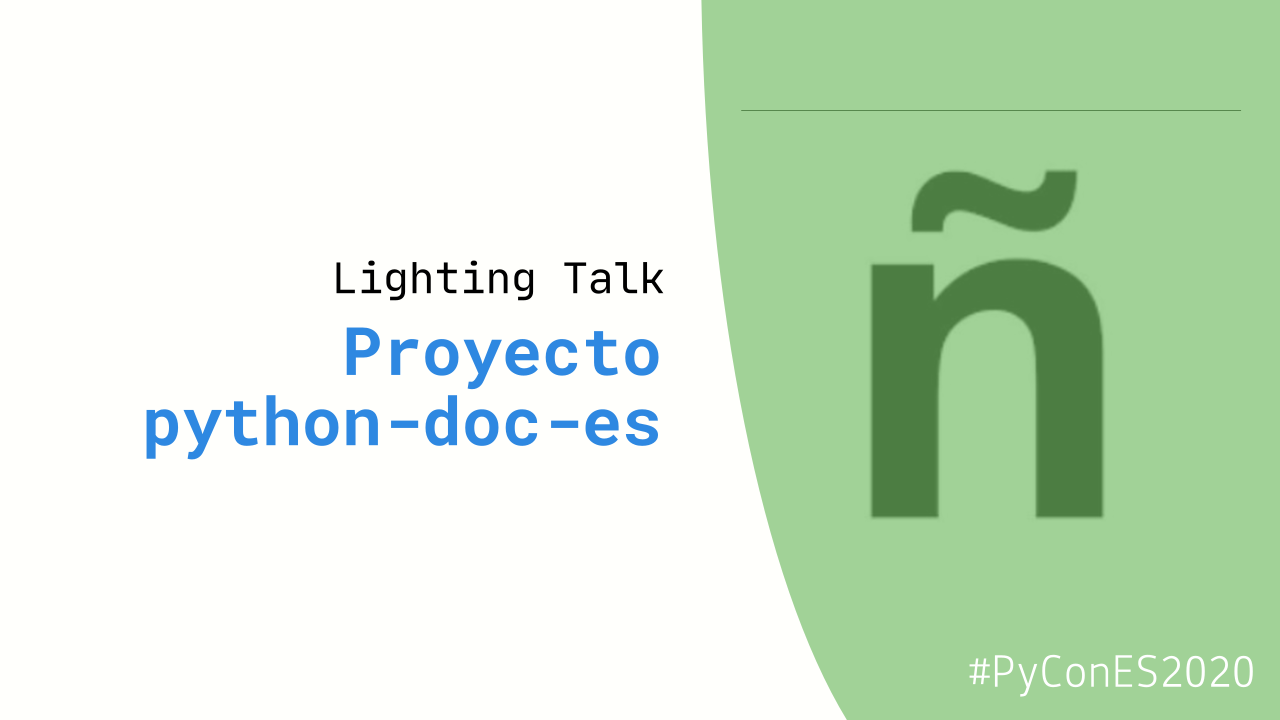
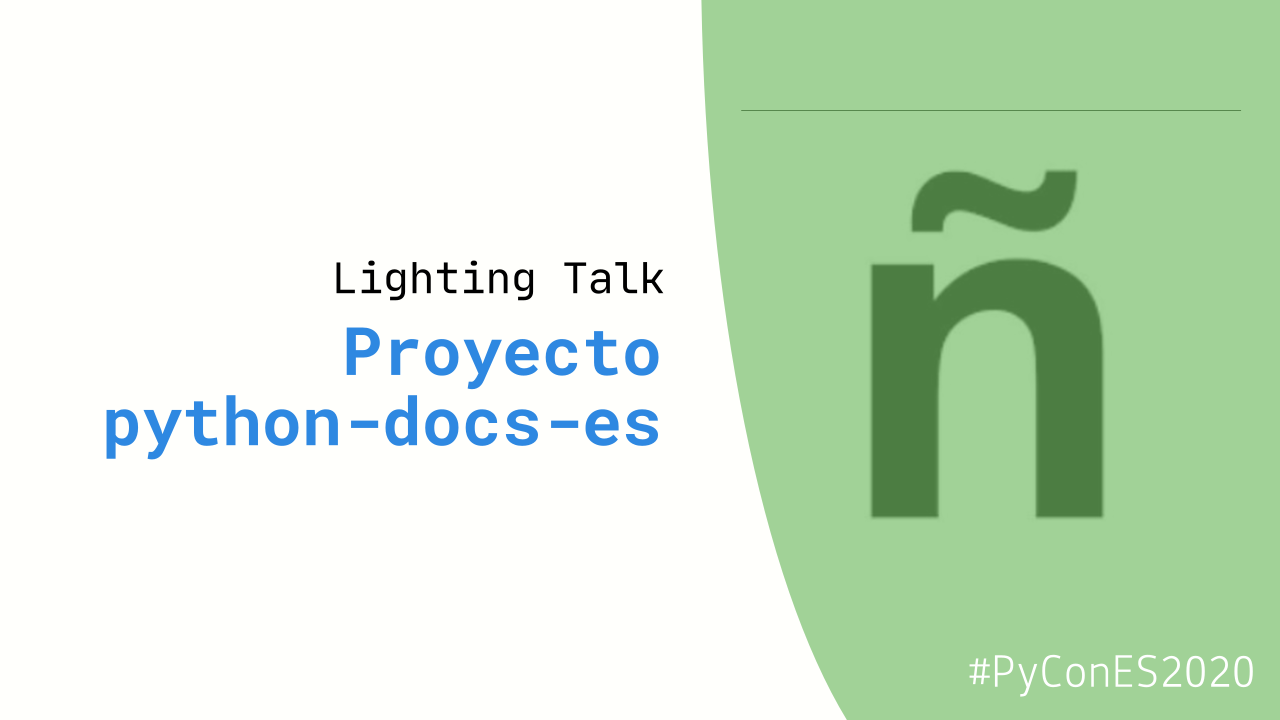
Deploying to gh-pages from  @ 474360a20bf920ba76e695084a4cfc4838da78b5 🚀

Changed region(s): [[0.0625, 0.55, 0.4375, 0.6417]]

diff --git a/community_14.html b/community_14.html
@@ -13,21 +13,21 @@
     <meta name="viewport" content="viewport-fit=cover, width=device-width, initial-scale=1.0, minimum-scale=1.0">
 
     <!-- Social meta data -->
-    <title>python-doc-es | Comunidades  | PyConES 2020</title>
+    <title>python-docs-es | Comunidades  | PyConES 2020</title>
     
-        <meta name="title" content="python-doc-es | Comunidades  | PyConES 2020">
+        <meta name="title" content="python-docs-es | Comunidades  | PyConES 2020">
   
 
-  <meta property="og:title" content="python-doc-es | Comunidades  | PyConES 2020">
+  <meta property="og:title" content="python-docs-es | Comunidades  | PyConES 2020">
   
   <meta property="og:image" content="https://2020.es.pycon.org/static/images/communities/proyecto python-docs-es_social.png">
-  <meta property="og:image:alt" content="python-doc-es">
+  <meta property="og:image:alt" content="python-docs-es">
 
   <meta name="twitter:card" content="summary_large_image">
-  <meta name="twitter:title" content="python-doc-es | Comunidades  | PyConES 2020">
+  <meta name="twitter:title" content="python-docs-es | Comunidades  | PyConES 2020">
   
   <meta name="twitter:image" content="https://2020.es.pycon.org/static/images/communities/proyecto python-docs-es_social.png">
-  <meta name="twitter:image:alt" content="python-doc-es">
+  <meta name="twitter:image:alt" content="python-docs-es">
   <meta name="twitter:site" content="@PyConES">
   <meta name="twitter:creator" content="@python_es">
     
@@ -155,7 +155,7 @@
       </div>
       <div class="col-md-10 col-sm-6">
         <h2 class="card-title main-title text-center">
-          python-doc-es
+          python-docs-es
         </h2>
         
       </div>

diff --git a/community_2.html b/community_2.html
@@ -16,16 +16,16 @@
     <title>Python Almería | Comunidades  | PyConES 2020</title>
     
         <meta name="title" content="Python Almería | Comunidades  | PyConES 2020">
-  
+  <meta name="description" content="Comunidad local de Almería. Donde se trata temas relacionados con el lenguaje de programación Python. Organizamos charlas y talleres sobre python. ">
 
   <meta property="og:title" content="Python Almería | Comunidades  | PyConES 2020">
-  
+  <meta property="og:description" content="Comunidad local de Almería. Donde se trata temas relacionados con el lenguaje de programación Python. Organizamos charlas y talleres sobre python. ">
   <meta property="og:image" content="https://2020.es.pycon.org/static/images/communities/python_almería_social.png">
   <meta property="og:image:alt" content="Python Almería">
 
   <meta name="twitter:card" content="summary_large_image">
   <meta name="twitter:title" content="Python Almería | Comunidades  | PyConES 2020">
-  
+  <meta name="twitter:description" content="Comunidad local de Almería. Donde se trata temas relacionados con el lenguaje de programación Python. Organizamos charlas y talleres sobre python. ">
   <meta name="twitter:image" content="https://2020.es.pycon.org/static/images/communities/python_almería_social.png">
   <meta name="twitter:image:alt" content="Python Almería">
   <meta name="twitter:site" content="@PyConES">

diff --git a/communities.html b/communities.html
@@ -202,7 +202,7 @@
             </div>
             
             <div class="m-3">
-              
+              Comunidad local de Almería. Donde se trata temas relacionados con el lenguaje de programación Python. Organizamos charlas y talleres sobre python. 
             </div>
           </div>
         </div>
@@ -520,7 +520,7 @@
             <div class="m-3 text-muted">
               <h3>
                 <a href="community_14.html" class="main-title">
-                  python-doc-es
+                  python-docs-es
                 </a>
               </h3>
             </div>

diff --git a/index.html b/index.html
@@ -791,7 +791,7 @@
                             
                               
                               <a href="community_14.html" class="schedule-info-title community">
-                                Lightning Talk: Proyecto python-doc-es
+                                Lightning Talk: Proyecto python-docs-es
                               </a>
                               
                             

diff --git a/community_5.html b/community_5.html
@@ -165,7 +165,7 @@
     <div class="card-body">
       <div class="card-text">
         <div id="abstractExample">
-          <p>Comunidades de Python de Castilla y la Mancha: </p>
+          <p>Comunidades de Python de Castilla y León: - PyData Salamanca: Grupo abierto e interdisciplinar orientado al análisis de datos y su difusión en la ciudad de Salamanca.</p>
         </div>
       </div>
       <p></p>
